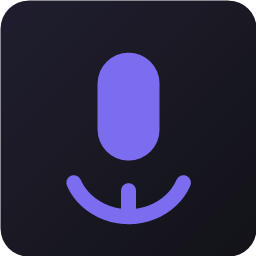
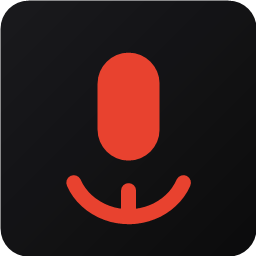
Recolour the app: signal red on neutral black
The purple read as generic and the near-black had a blue cast that
fought it. The palette is now a warm signal red on a true neutral
ground, which gives the app an identity of its own.

Recording and the accent are deliberately the same red. Recording is
what this app does; making it the loudest thing on screen and using
that same colour for primary actions is more coherent than treating
the live state as an exception.

Carried through everything that shows a colour, so nothing is left
behind at the old hue: the window chrome and title bar overlay, the
overlay pill and its meter, the tray mark, the app icon itself, and
the social card.

Two things fixed while going through it. Text on a filled button now
comes from --on-accent instead of being hardcoded white, so the accent
is free to be a light colour later. And the transcribing meter loses
its gradient sweep — now that the bars animate as a travelling wave,
the sweep on top of them read as a solid block sitting on the meter.

Claude-Session: https://claude.ai/code/session_0172VzhrzAjsy1jUc1gihPHJ

Changed region(s): [[0.375, 0.1875, 0.625, 0.625], [0.25, 0.6875, 0.75, 0.875]]

diff --git a/src/renderer/hud.html b/src/renderer/hud.html
@@ -27,11 +27,11 @@
        to stay inside them rather than growing with its content. */
     max-width: calc(100vw - 24px);
     box-sizing: border-box;
-    background: rgba(23, 23, 29, 0.94);
+    background: rgba(19, 19, 21, 0.94);
     border: 1px solid rgba(255, 255, 255, 0.09);
     backdrop-filter: blur(18px) saturate(1.3);
     box-shadow: 0 18px 44px -10px rgba(0, 0, 0, 0.8), 0 2px 8px rgba(0, 0, 0, 0.5);
-    color: #f2f2f5;
+    color: #f4f4f5;
     transform: translateY(10px) scale(0.97);
     opacity: 0;
     transition: transform 260ms cubic-bezier(.22,1,.36,1), opacity 200ms ease-out;
@@ -39,27 +39,27 @@
   .pill.in { transform: none; opacity: 1; }
 
   /* state lamp */
-  .lamp { width: 9px; height: 9px; border-radius: 50%; flex: 0 0 auto; background: #85859a; }
+  .lamp { width: 9px; height: 9px; border-radius: 50%; flex: 0 0 auto; background: #82828c; }
   .pill[data-state='recording'] .lamp {
-    background: #f0616d;
-    box-shadow: 0 0 0 0 rgba(240, 97, 109, 0.55);
+    background: #e8422f;
+    box-shadow: 0 0 0 0 rgba(232, 66, 47, 0.55);
     animation: ping 1.8s cubic-bezier(.22,1,.36,1) infinite;
   }
   @keyframes ping {
-    0%   { box-shadow: 0 0 0 0 rgba(240,97,109,.5); }
-    70%  { box-shadow: 0 0 0 8px rgba(240,97,109,0); }
-    100% { box-shadow: 0 0 0 0 rgba(240,97,109,0); }
+    0%   { box-shadow: 0 0 0 0 rgba(232,66,47,.5); }
+    70%  { box-shadow: 0 0 0 8px rgba(232,66,47,0); }
+    100% { box-shadow: 0 0 0 0 rgba(232,66,47,0); }
   }
   .pill[data-state='done'] .lamp { background: #4ade80; }
-  .pill[data-state='error'] .lamp { background: #f0616d; }
+  .pill[data-state='error'] .lamp { background: #e8422f; }
 
   /* Locked recording gets a steady ring instead of the pulse, so a glance
      tells you whether it stops when you let go or keeps running. */
   .pill[data-locked='true'] .lamp {
     animation: none;
-    box-shadow: 0 0 0 3px rgba(240, 97, 109, 0.28);
+    box-shadow: 0 0 0 3px rgba(232, 66, 47, 0.30);
   }
-  .pill[data-locked='true'] { border-color: rgba(240, 97, 109, 0.4); }
+  .pill[data-locked='true'] { border-color: rgba(232, 66, 47, 0.45); }
 
   /* the meter is the signature: real levels, not a decorative loop */
   .meter { display: flex; align-items: center; gap: 2.5px; height: 22px; flex: 1; min-width: 0; }
@@ -68,7 +68,7 @@
     width: 2.5px;
     min-height: 2.5px;
     border-radius: 2px;
-    background: #7c6cf0;
+    background: #e8422f;
     transform-origin: center;
     transition: height 70ms linear, opacity 200ms ease;
   }
@@ -76,7 +76,7 @@
      "nothing is happening". The bars run as a travelling wave instead, so
      there is always visible evidence that the app is still working. */
   .pill[data-state='transcribing'] .meter i {
-    background: #7c6cf0;
+    background: #e8422f;
     transition: none;
     animation: work 1.15s ease-in-out infinite;
     animation-delay: calc(var(--i, 0) * 45ms);
@@ -86,23 +86,17 @@
     45%      { transform: scaleY(4.2); opacity: 1; }
   }
 
-  .label { font-size: 12.5px; color: #b6b6c4; white-space: nowrap; }
+  .label { font-size: 12.5px; color: #b4b4bb; white-space: nowrap; }
   .time {
-    font-size: 12.5px; color: #f2f2f5;
+    font-size: 12.5px; color: #f4f4f5;
     font-variant-numeric: tabular-nums;
     min-width: 34px; text-align: right;
     flex: 0 0 auto;
   }
 
-  /* transcribing: bars settle and a sweep runs through them */
+  /* The bars themselves carry the transcribing animation now. A gradient
+     sweeping over them as well read as a solid block sitting on the meter. */
   .sweep { position: relative; overflow: hidden; }
-  .pill[data-state='transcribing'] .sweep::after {
-    content: '';
-    position: absolute; inset: 0;
-    background: linear-gradient(90deg, transparent, rgba(124,108,240,.85), transparent);
-    animation: sweep 1.1s cubic-bezier(.4,0,.6,1) infinite;
-  }
-  @keyframes sweep { from { transform: translateX(-100%); } to { transform: translateX(100%); } }
 
   .msg {
     font-size: 12.5px;
@@ -111,9 +105,9 @@
     overflow: hidden;
     text-overflow: ellipsis;
     white-space: nowrap;
-    color: #b6b6c4;
+    color: #b4b4bb;
   }
-  .pill[data-state='error'] .msg { color: #f4919a; }
+  .pill[data-state='error'] .msg { color: #ff8b7a; }
   .pill[data-state='done'] .msg { color: #a7e8bd; }
 
   /* Once recording stops there is no live signal to show, and leaving the

diff --git a/src/renderer/styles.css b/src/renderer/styles.css
@@ -1,23 +1,23 @@
 @import url('./fonts.css');
 
 :root {
-  --bg:        #0f0f13;
-  --surface:   #17171d;
-  --surface-2: #1e1e26;
-  --surface-3: #262630;
-  --line:      #26262f;
-  --line-soft: #1f1f27;
+  --bg:        #0b0b0c;
+  --surface:   #131315;
+  --surface-2: #1a1a1d;
+  --surface-3: #242428;
+  --line:      #232327;
+  --line-soft: #1b1b1f;
 
-  --text:      #f2f2f5;
-  --text-2:    #b6b6c4;
-  --text-3:    #85859a;
+  --text:      #f4f4f5;
+  --text-2:    #b4b4bb;
+  --text-3:    #82828c;
 
-  --accent:      #7c6cf0;
-  --accent-hi:   #9384f5;
-  --accent-soft: rgba(124, 108, 240, 0.14);
+  --accent:      #e8422f;
+  --accent-hi:   #ff5a45;
+  --accent-soft: rgba(232, 66, 47, 0.16);
   --on-accent:   #ffffff;
 
-  --live:    #f0616d;
+  --live:    #e8422f;
   --good:    #4ade80;
   --warn:    #f2b544;
 
@@ -57,7 +57,7 @@ body {
   border: 3px solid var(--bg);
   border-radius: 8px;
 }
-::-webkit-scrollbar-thumb:hover { background: #33333f; }
+::-webkit-scrollbar-thumb:hover { background: #2e2e32; }
 :focus-visible { outline: 2px solid var(--accent); outline-offset: 2px; border-radius: 3px; }
 input::placeholder { color: var(--text-3); }
 
@@ -187,11 +187,11 @@ input::placeholder { color: var(--text-3); }
 .btn-primary { background: var(--accent); border-color: var(--accent); color: var(--on-accent); }
 .btn-primary:hover { background: var(--accent-hi); border-color: var(--accent-hi); }
 .btn-live { background: var(--live); border-color: var(--live); color: #fff; }
-.btn-live:hover { background: #f47681; border-color: #f47681; }
+.btn-live:hover { background: var(--accent-hi); border-color: var(--accent-hi); }
 .btn:disabled { opacity: 0.45; cursor: default; transform: none; }
 .btn-ghost { background: none; border-color: transparent; color: var(--text-3); padding: 6px 9px; }
 .btn-ghost:hover { background: var(--surface-2); color: var(--text-2); }
-.btn-danger:hover { background: rgba(240,97,109,.12); border-color: rgba(240,97,109,.4); color: #f4919a; }
+.btn-danger:hover { background: rgba(232,66,47,.12); border-color: rgba(232,66,47,.42); color: #ff8b7a; }
 
 kbd {
   font: inherit; font-size: 11.5px;

diff --git a/tools/social-card.html b/tools/social-card.html
@@ -25,7 +25,7 @@
     position: absolute;
     width: 900px; height: 900px;
     right: -260px; top: -180px;
-    background: radial-gradient(circle, rgba(124,108,240,.26), transparent 60%);
+    background: radial-gradient(circle, rgba(232,66,47,.26), transparent 60%);
     pointer-events: none;
   }
   body::after {
@@ -74,14 +74,14 @@
     padding: 17px 26px; border-radius: 999px;
     background: rgba(23,23,29,.96);
     border: 1px solid rgba(255,255,255,.10);
-    box-shadow: 0 26px 60px -14px rgba(0,0,0,.85), 0 0 0 1px rgba(124,108,240,.10);
+    box-shadow: 0 26px 60px -14px rgba(0,0,0,.85), 0 0 0 1px rgba(232,66,47,.12);
     white-space: nowrap;
   }
   .lamp { width: 11px; height: 11px; border-radius: 50%; flex: 0 0 auto; }
   .pill.rec .lamp { background: #f0616d; box-shadow: 0 0 0 7px rgba(240,97,109,.16); }
   .pill.ok  .lamp { background: #4ade80; }
   .meter { display: flex; align-items: center; gap: 3px; height: 26px; }
-  .meter i { width: 4px; border-radius: 2px; background: #7c6cf0; display: block; }
+  .meter i { width: 4px; border-radius: 2px; background: #e8422f; display: block; }
   .time { font-size: 16px; margin-left: auto; font-variant-numeric: tabular-nums; color: #f2f2f5; }
   .msg  { font-size: 16px; color: #a7e8bd; }
 

diff --git a/src/main/main.js b/src/main/main.js
@@ -37,12 +37,12 @@ function createMainWindow() {
     minWidth: 720,
     minHeight: 480,
     show: false,
-    backgroundColor: '#0f0f13',
+    backgroundColor: '#0b0b0c',
     title: 'Yapanese',
     icon: path.join(__dirname, '..', '..', 'assets', 'icon.ico'),
     autoHideMenuBar: true,
     titleBarStyle: 'hidden',
-    titleBarOverlay: { color: '#0f0f13', symbolColor: '#9a9aa8', height: 40 },
+    titleBarOverlay: { color: '#0b0b0c', symbolColor: '#9a9aa2', height: 40 },
     webPreferences: {
       preload: path.join(__dirname, '..', 'preload', 'preload.js'),
       contextIsolation: true,

diff --git a/src/main/icon.js b/src/main/icon.js
@@ -15,9 +15,10 @@ const { nativeImage } = require('electron');
  * thing the pill does: red while recording, violet while transcribing.
  */
 const COLORS = {
-  idle:         [0xb4, 0xb4, 0xc2],
-  recording:    [0xf0, 0x61, 0x6d],
-  transcribing: [0x7c, 0x6c, 0xf0],
+  idle:         [0x9a, 0x9a, 0xa2],
+  recording:    [0xe8, 0x42, 0x2f],
+  // A dimmed accent rather than a second hue: still working, no longer live.
+  transcribing: [0xa8, 0x4d, 0x3c],
 };
 
 const cache = new Map();
